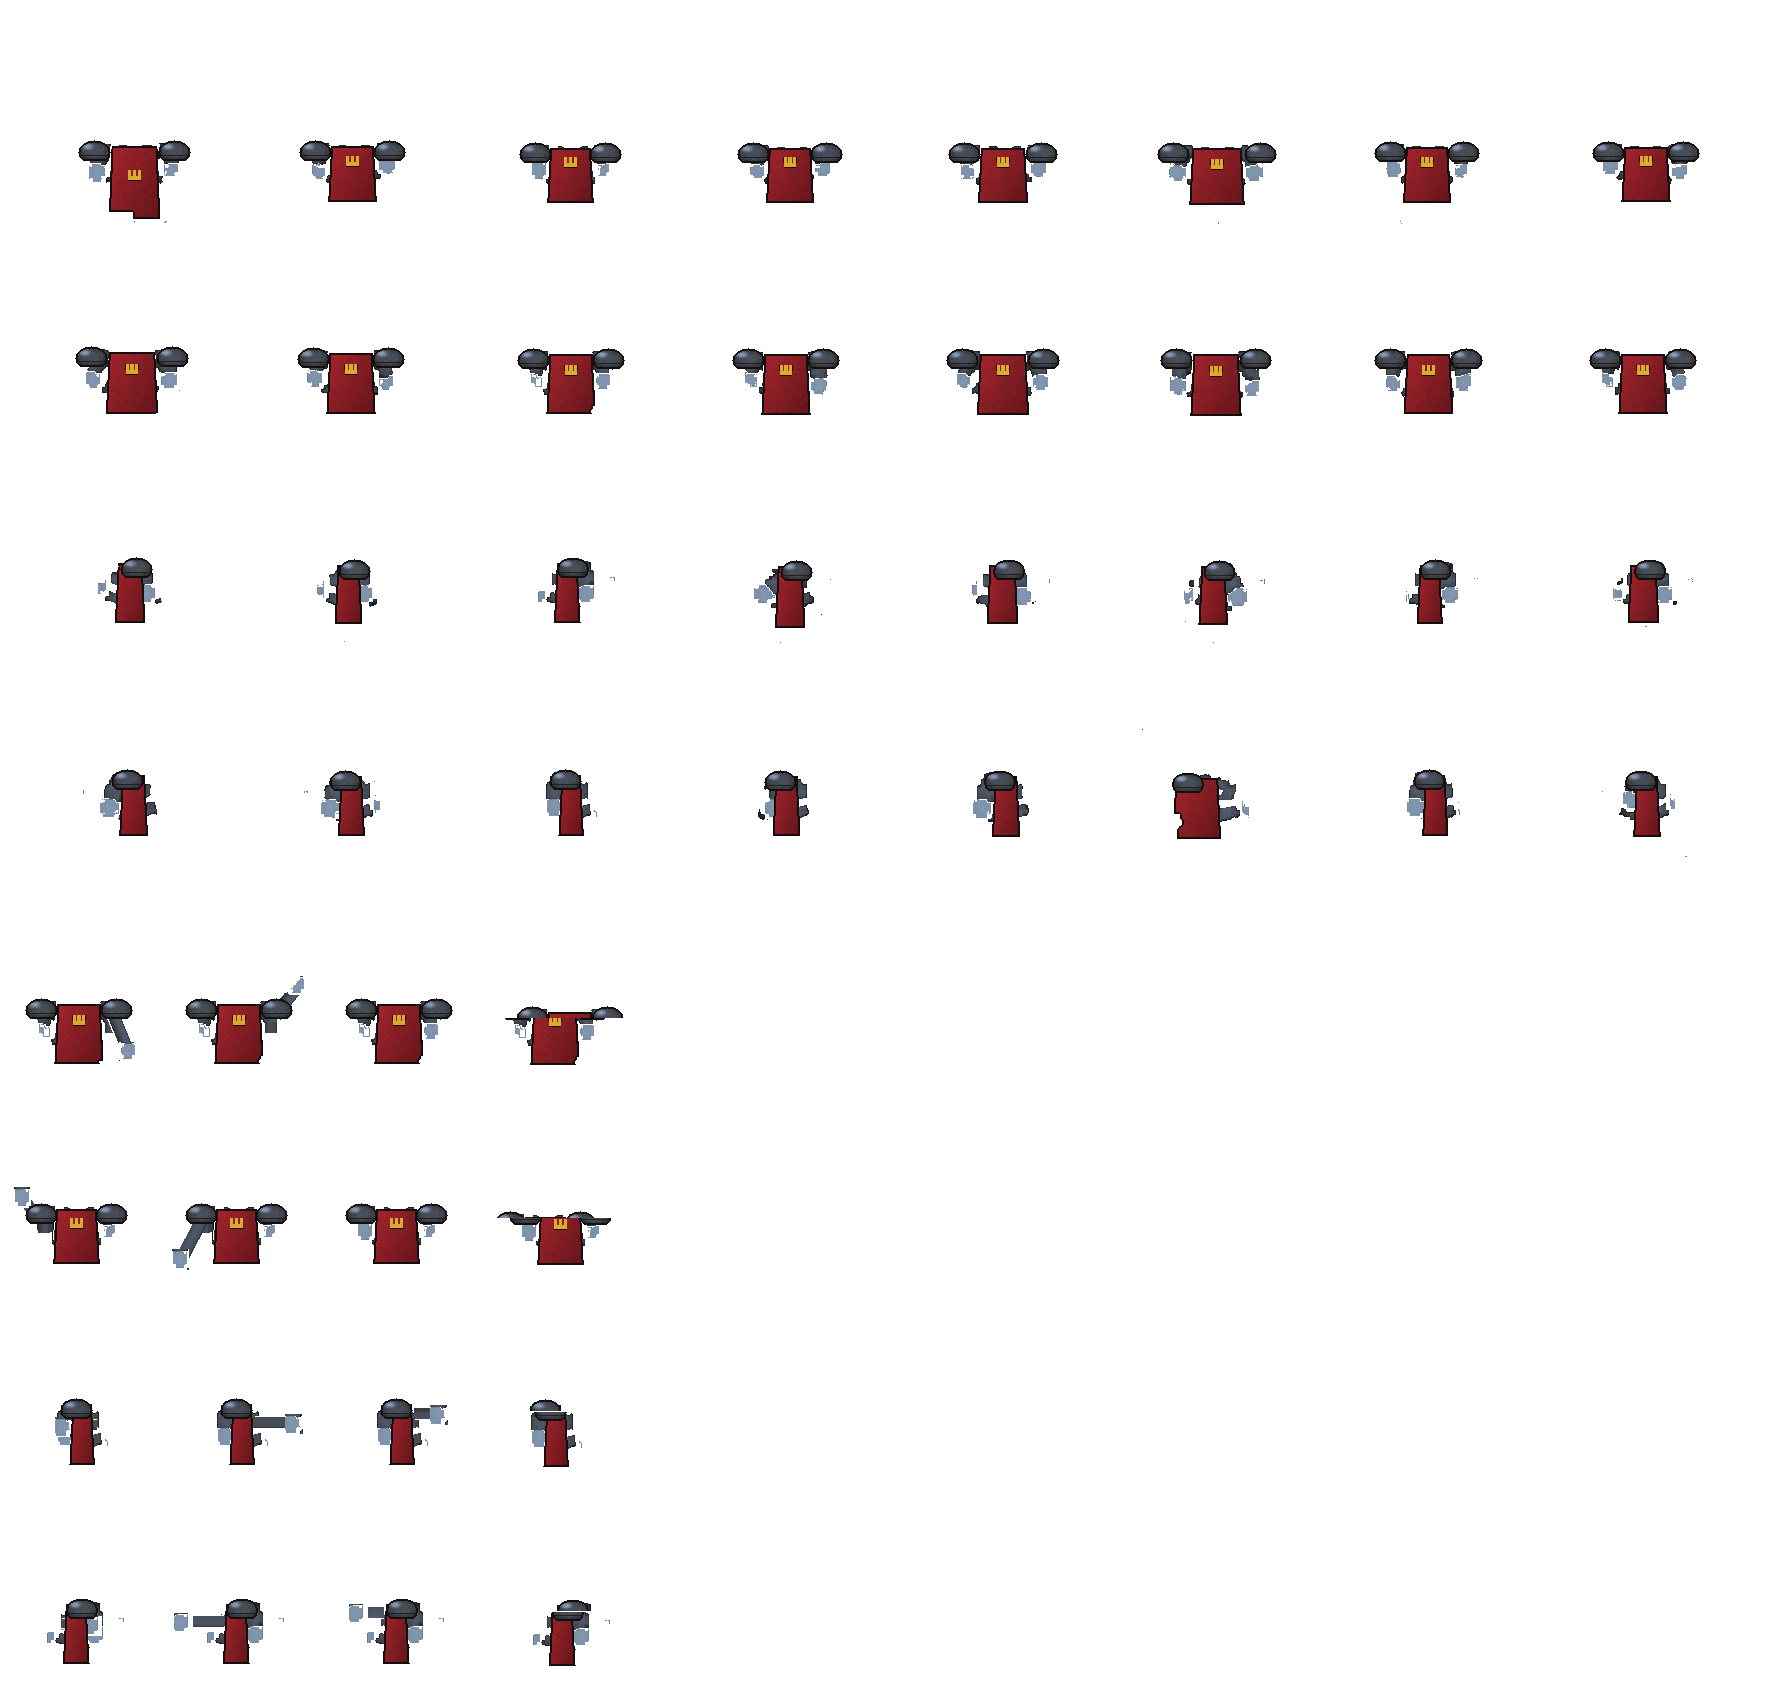
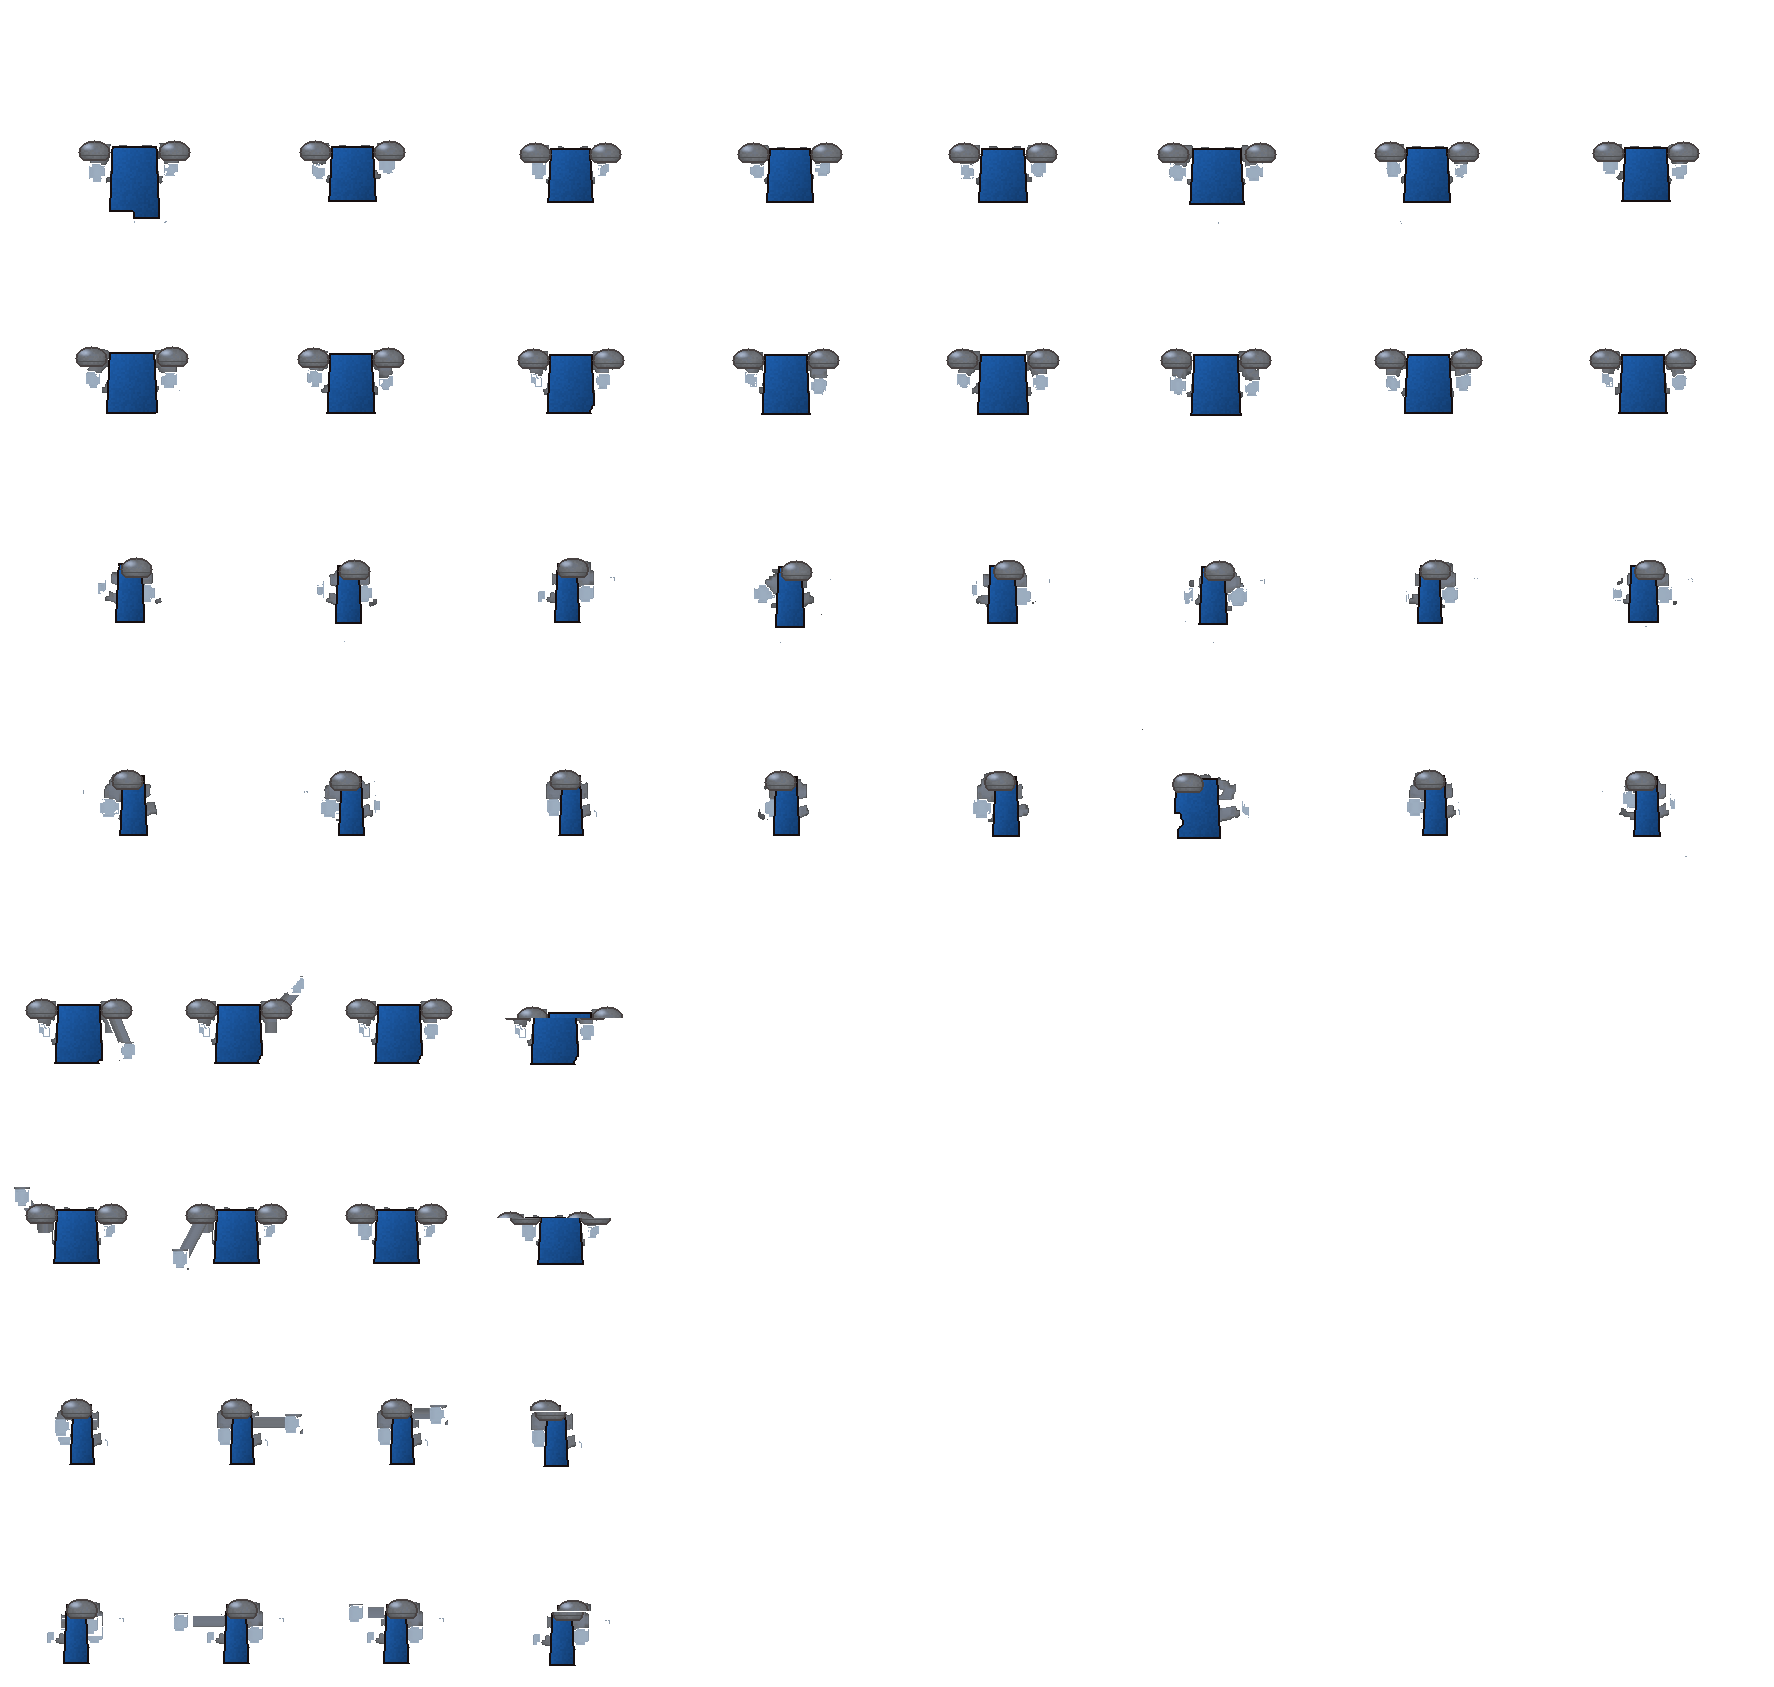
R1: the bow lesson given by Wren, and Yannick's answers on group E
The bow lesson could not be won: after the first arrow Bram was at
contact and followed every step. Wren gives it now (the bow drill's
first fighter, and Bram's line): an archer, she keeps three to six
tiles off and shoots too, one point an arrow; Bram still teaches it and
speaks after. Measured from his line, standing still and shooting,
the scripted archer, walking up first: passed in three turns each time,
Wren never nearer than three tiles. Lines, card and hints say "elle".

His answers on group E: hair styles validated for now; the trousers
stay grey; in the king's set the player wears his own surcoat - in the
colour chosen, without the crown - while the iron keeps its paint
(PaperDoll.KEEPS_PAINT, an alpha the shader does not recolour); Force's
text stays and blows by the traits go under Later in DEMO_TASKS.

Group R opened: R2, starting a fight yourself, waits for his answer.

Both suites green (817 tests each); the game launches.

diff --git a/CLAUDE.md b/CLAUDE.md
@@ -644,7 +644,8 @@ reconstruct it from forty commits will get it wrong.
 | **V** | **Built, V0–V6** (2026-09-30): Yannick's revision of the gate — three very strong king's guards (40 points, blows of 10) answer an attack; beating the four forces the gate, open and empty; then the furnaces are the player's — putting one out brings the quest's guards, a sword and two bows, easy (V6), lighting one brings Tom. A review walked it and its five findings are fixed. **The check is Yannick playing it, with G** |
 | **L** | **Built, L1–L11** (2026-09-30): every type of person told apart at a glance — the king's guards heavy and armed, the quest's guards light, workers, Harry, villagers, Bram and Wren — by `tools/draw_cast_looks.gd` and `content/looks.json`, thirteen looks Yannick chose from a board; **the art rule rewritten the same day** — we may draw what the game needs, coherent with his brother's hand. Reviewed, findings fixed, his brother's task page republished. **The king's own look is a task for later** |
 | **A** | **Built, A1–A7** (2026-10-01): **who you are** — the player's appearance chosen at creation (six hair styles, eight colours, five skins, four beards, six colours of clothes), drawn in layers: his traveller split by `tools/draw_player_layers.gd`, stacked and coloured live by the paper-doll shader (`view3d/layers/`, `view/paper_doll.gd`), the same drawing on the two-page creation screen and in the world. Design and Yannick's answers: `docs/CREATION_AND_GEAR.md` |
-| **E** | **Built, E1–E7** (2026-10-01): **what you carry** — six slots on the same layers, ten items drawn from group L's pieces (`content/items.json`), the start kit and no weapon, **the first sword on a grave** two tiles from where you wake, fists for less without it, Wren's bow an item, a beaten fighter leaving what he wore; armour's protection off every blow and weight a tile a turn (save version 5); **Tab** opens the inventory over a stopped world. A fresh-eyes review walked creation to equipment in play. **Yannick has not yet seen the reworked long, tied and braided hair.** **P2 is next**, with Yannick |
+| **E** | **Built, E1–E7** (2026-10-01): **what you carry** — six slots on the same layers, ten items drawn from group L's pieces (`content/items.json`), the start kit and no weapon, **the first sword on a grave** two tiles from where you wake, fists for less without it, Wren's bow an item, a beaten fighter leaving what he wore; armour's protection off every blow and weight a tile a turn (save version 5); **Tab** opens the inventory over a stopped world. A fresh-eyes review walked creation to equipment in play. Yannick played it the same evening: hair styles validated for now, trousers grey, his own surcoat in the king's set |
+| **R** | **The work now** (2026-10-01, from his play): **R1 built** — the bow lesson is given by Wren, who keeps her distance and shoots too (Bram came to contact and it could not be won). **R2 — starting a fight yourself**, a simplified Baldur's Gate 3: its approach is put to Yannick, **not built** until he answers. Then **P2**, with Yannick |
 | **S** | **S1 and S2 built** (2026-09-28): four traits, a pool of 8, and the public build opens on the title; **S3 needs a Windows machine nobody has**, and S4 needs a stranger |
 | **C** | **C1 built** (2026-09-28): the LLM layer deleted. **C3's first half built** the same day: one quest, no opinion per person. The rest of C3 — ranks, documents, the three routes, the invariant-7 walk — goes **with C2 and C4, as one change** (Yannick, 2026-09-28). **C2–C4 validated** (2026-09-29, evening), **after P2**. The clearing is deleted (T2) |
 | **P2** | **After group T, with Yannick**: a review and rewrite of every line of the demo — Claude drafts, he validates, French first. It writes the Cinderworks' lines by state (Q6's), and C4 deletes the old ones. O18–O19's drafts stand until then and keep their `_p2` marks |

diff --git a/docs/DEMO_TASKS.md b/docs/DEMO_TASKS.md
@@ -2778,6 +2778,51 @@ creation → equipment in play; `CLAUDE.md`, V3 and `POUR_SLOSINIO.md`.
 
 ---
 
+## R — after his play of group E: the bow lesson, and fights the player starts
+
+> Yannick played the demo on the evening of 2026-10-01 (*« on se rapproche de plus en
+> plus d'une démo jouable »*) and answered the four open questions of group E: the hair
+> styles validated for now, the trousers his grey, **his own surcoat in the king's set**
+> (built with R1's commit: the surcoat in the colour chosen, no crown, the iron kept by
+> `PaperDoll.KEEPS_PAINT`), and Force's text kept, the gap written under *Later*. One
+> defect and one feature: **the bow lesson could not be won**, and **the player should be
+> able to start a fight himself**, as in Baldur's Gate 3, simplified. The defect first;
+> the feature's approach is put to him before any code.
+
+### R1 · The bow lesson, given by an archer — **built 2026-10-01**
+
+**What he found:** after the first arrow Bram was at contact, and every step he took Bram
+followed: a bow that cannot be used. **What he asked:** in the bow lesson the opponent
+uses a bow too and keeps her distance, so the player learns to shoot and to move.
+**Check:** a newcomer finishes the bow lesson without particular difficulty.
+
+> **Built.** **Wren gives it** (`content/duel.json`'s bow drill: `first: wren`; Bram's line
+> `fights: wren`). She is the archer of the cast: she keeps three to six tiles from you and
+> shoots too, one point an arrow, and Bram still teaches it and speaks after. Measured from
+> his line, three ways of playing — standing still and shooting every turn, the scripted
+> archer's hand, walking up first: **passed in three turns every time, Wren never nearer
+> than three tiles**. Bram's line, his words after the sword and after the bow, the card
+> and the hints now say *elle*. `test_in_the_bow_lesson_wren_keeps_her_distance_and_shoots_too`.
+> **Not built: dodging.** An arrow lands when it is shot, for everybody (group T), so moving
+> cannot make one miss; a dodge needs an archer who aims a turn ahead. Put to Yannick with
+> R2.
+
+### R2 · Starting a fight yourself — **approach put to Yannick, not built**
+
+Enemies with a zone in which they see you; outside it the player can watch them; an arrow
+or a blow from the player starts the fight; perhaps an advantage for the surprise. The
+approach is in the report of 2026-10-01 and waits for his answer.
+
+---
+
+## Later — known gaps, kept so they are not forgotten
+
+- **Blows by the traits** (Yannick, 2026-10-01). Force's description says *vous frappez
+  fort*, and a blow is five whatever Force is. The text stays: later, how hard a blow lands
+  depends on the traits' values. Not designed yet — with the combat workstream.
+
+---
+
 ## S — the shell
 
 ### S1 · Four traits, a pool of 8 — **built 2026-09-28**

diff --git a/docs/CREATION_AND_GEAR.md b/docs/CREATION_AND_GEAR.md
@@ -13,6 +13,13 @@ first weapon comes from he offered two answers — Bram hands it over at the les
 weapon lies to be picked up just past the fairy — and the second is taken, §4: a lesson can
 be refused, and a player who refuses it must not walk to the wolves with nothing.
 
+**After his play (2026-10-01, evening)**, on the review's open points: the hair styles are
+*not perfect, validated for now*; **the trousers stay his grey** — only the tunic takes the
+colour, so the legs read apart; **in the king's set the player wears his own surcoat**, in
+the colour chosen and without the crown, so he is not one more king's guard; and Force's
+*vous frappez fort* stays — **blows will depend on the traits later**, a known gap kept in
+`docs/DEMO_TASKS.md`, *Later*.
+
 ---
 
 ## 1. What the screen can show
@@ -45,7 +52,7 @@ is a choice that makes the screen feel padded.
 | **Hair colour** | **8** | Red (his), black, dark brown, chestnut, blond, ash blond, grey, auburn. Pure white is impossible: his shader throws away light greys |
 | **Skin tone** | **5** | From his pale to dark. His face's reddish outline is recoloured with the skin, or dark skins wear a halo |
 | **Beard** | **4** | None, stubble, short, full — in the hair's colour |
-| **Clothes' colour** | **6** | The starting tunic and trousers (block 2's first items), dyed |
+| **Clothes' colour** | **6** | The starting tunic (block 2's first item), dyed; the trousers stay his grey (Yannick, 2026-10-01) |
 
 **The default is his traveller exactly** — red spiky hair, pale skin, no beard, blue tunic —
 so a player who changes nothing is the character the brother drew.
@@ -138,7 +145,7 @@ combat numbers is a design of its own.
 
 ### Where things come from, in the demo
 
-- **At the start**: a cloth tunic and cloth trousers in the colour chosen at creation,
+- **At the start**: a cloth tunic in the colour chosen at creation, his grey cloth trousers,
   and walking boots. **No weapon.**
 - **The first sword lies by the graves, just past the fairy** (Yannick, 2026-10-01): a
   short sword on a fallen villager's grave, picked up with the key that picks anything up.
